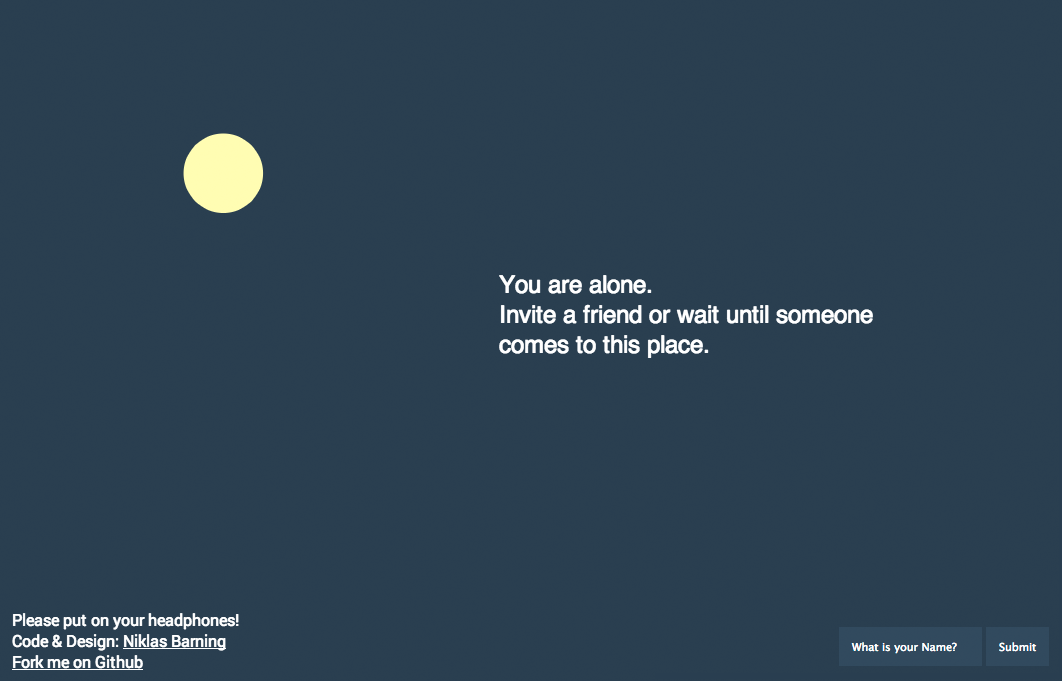
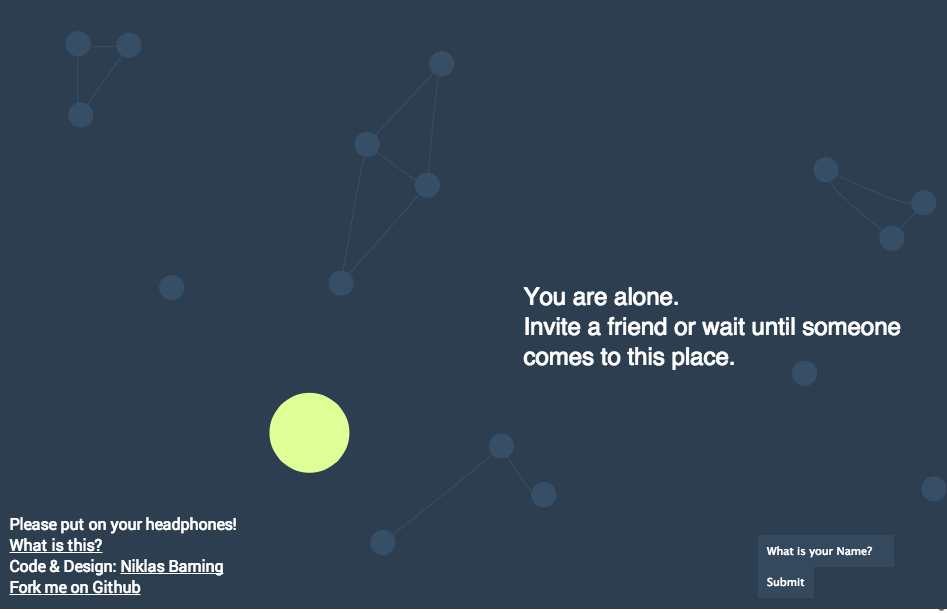
Inserted Particleground.js, Changed Readme

diff --git a/js/jquery.particleground.min.js b/js/jquery.particleground.min.js
@@ -1,0 +1,40 @@
+/**
+ * Particleground
+ *
+ * @author Jonathan Nicol - @mrjnicol
+ * @version 1.0.1
+ * @description Creates a canvas based particle system background
+ *
+ * Inspired by:
+ * http://requestlab.fr/
+ * http://disruptivebydesign.com/
+ * 
+ * @license The MIT License (MIT)
+ * 
+ * Copyright (c) 2014 Jonathan Nicol - @mrjnicol
+ * 
+ * Permission is hereby granted, free of charge, to any person obtaining a copy
+ * of this software and associated documentation files (the "Software"), to deal
+ * in the Software without restriction, including without limitation the rights
+ * to use, copy, modify, merge, publish, distribute, sublicense, and/or sell
+ * copies of the Software, and to permit persons to whom the Software is
+ * furnished to do so, subject to the following conditions:
+ * 
+ * The above copyright notice and this permission notice shall be included in
+ * all copies or substantial portions of the Software.
+ * 
+ * THE SOFTWARE IS PROVIDED "AS IS", WITHOUT WARRANTY OF ANY KIND, EXPRESS OR
+ * IMPLIED, INCLUDING BUT NOT LIMITED TO THE WARRANTIES OF MERCHANTABILITY,
+ * FITNESS FOR A PARTICULAR PURPOSE AND NONINFRINGEMENT. IN NO EVENT SHALL THE
+ * AUTHORS OR COPYRIGHT HOLDERS BE LIABLE FOR ANY CLAIM, DAMAGES OR OTHER
+ * LIABILITY, WHETHER IN AN ACTION OF CONTRACT, TORT OR OTHERWISE, ARISING FROM,
+ * OUT OF OR IN CONNECTION WITH THE SOFTWARE OR THE USE OR OTHER DEALINGS IN
+ * THE SOFTWARE.
+ */
+!function(a){function b(b,d){function e(){if(w){$canvas=a('<canvas class="pg-canvas"></canvas>'),v.prepend($canvas),p=$canvas[0],q=p.getContext("2d"),f();for(var b=Math.round(p.width*p.height/d.density),c=0;b>c;c++){var e=new l;e.setStackPos(c),x.push(e)}a(window).on("resize",function(){h()}),a(document).on("mousemove",function(a){y=a.pageX,z=a.pageY}),B&&!A&&window.addEventListener("deviceorientation",function(){D=Math.min(Math.max(-event.beta,-30),30),C=Math.min(Math.max(-event.gamma,-30),30)},!0),g(),o("onInit")}}function f(){p.width=v.width(),p.height=v.height(),q.fillStyle=d.dotColor,q.strokeStyle=d.lineColor,q.lineWidth=d.lineWidth}function g(){if(w){s=a(window).width(),t=a(window).height(),q.clearRect(0,0,p.width,p.height);for(var b=0;b<x.length;b++)x[b].updatePosition();for(var b=0;b<x.length;b++)x[b].draw();E||(r=requestAnimationFrame(g))}}function h(){for(f(),i=x.length-1;i>=0;i--)(x[i].position.x>v.width()||x[i].position.y>v.height())&&x.splice(i,1);var a=Math.round(p.width*p.height/d.density);if(a>x.length)for(;a>x.length;){var b=new l;x.push(b)}else a<x.length&&x.splice(a);for(i=x.length-1;i>=0;i--)x[i].setStackPos(i)}function j(){E=!0}function k(){E=!1,g()}function l(){switch(this.stackPos,this.active=!0,this.layer=Math.ceil(3*Math.random()),this.parallaxOffsetX=0,this.parallaxOffsetY=0,this.position={x:Math.ceil(Math.random()*p.width),y:Math.ceil(Math.random()*p.height)},this.speed={},d.directionX){case"left":this.speed.x=+(-d.maxSpeedX+Math.random()*d.maxSpeedX-d.minSpeedX).toFixed(2);break;case"right":this.speed.x=+(Math.random()*d.maxSpeedX+d.minSpeedX).toFixed(2);break;default:this.speed.x=+(-d.maxSpeedX/2+Math.random()*d.maxSpeedX).toFixed(2),this.speed.x+=this.speed.x>0?d.minSpeedX:-d.minSpeedX}switch(d.directionY){case"up":this.speed.y=+(-d.maxSpeedY+Math.random()*d.maxSpeedY-d.minSpeedY).toFixed(2);break;case"down":this.speed.y=+(Math.random()*d.maxSpeedY+d.minSpeedY).toFixed(2);break;default:this.speed.y=+(-d.maxSpeedY/2+Math.random()*d.maxSpeedY).toFixed(2),this.speed.x+=this.speed.y>0?d.minSpeedY:-d.minSpeedY}}function m(a,b){return b?void(d[a]=b):d[a]}function n(){v.find(".pg-canvas").remove(),o("onDestroy"),v.removeData("plugin_"+c)}function o(a){void 0!==d[a]&&d[a].call(u)}var p,q,r,s,t,u=b,v=a(b),w=!!document.createElement("canvas").getContext,x=[],y=0,z=0,A=!navigator.userAgent.match(/(iPhone|iPod|iPad|Android|BlackBerry|BB10|mobi|tablet|opera mini|nexus 7)/i),B=!!window.DeviceOrientationEvent,C=0,D=0,E=!1;return d=a.extend({},a.fn[c].defaults,d),l.prototype.draw=function(){q.beginPath(),q.arc(this.position.x+this.parallaxOffsetX,this.position.y+this.parallaxOffsetY,d.particleRadius/2,0,2*Math.PI,!0),q.closePath(),q.fill(),q.beginPath();for(var a=x.length-1;a>this.stackPos;a--){var b=x[a],c=this.position.x-b.position.x,e=this.position.y-b.position.y,f=Math.sqrt(c*c+e*e).toFixed(2);f<d.proximity&&(q.moveTo(this.position.x+this.parallaxOffsetX,this.position.y+this.parallaxOffsetY),d.curvedLines?q.quadraticCurveTo(Math.max(b.position.x,b.position.x),Math.min(b.position.y,b.position.y),b.position.x+b.parallaxOffsetX,b.position.y+b.parallaxOffsetY):q.lineTo(b.position.x+b.parallaxOffsetX,b.position.y+b.parallaxOffsetY))}q.stroke(),q.closePath()},l.prototype.updatePosition=function(){if(d.parallax){if(B&&!A){var a=(s-0)/60;pointerX=(C- -30)*a+0;var b=(t-0)/60;pointerY=(D- -30)*b+0}else pointerX=y,pointerY=z;this.parallaxTargX=(pointerX-s/2)/(d.parallaxMultiplier*this.layer),this.parallaxOffsetX+=(this.parallaxTargX-this.parallaxOffsetX)/10,this.parallaxTargY=(pointerY-t/2)/(d.parallaxMultiplier*this.layer),this.parallaxOffsetY+=(this.parallaxTargY-this.parallaxOffsetY)/10}switch(d.directionX){case"left":this.position.x+this.speed.x+this.parallaxOffsetX<0&&(this.position.x=v.width()-this.parallaxOffsetX);break;case"right":this.position.x+this.speed.x+this.parallaxOffsetX>v.width()&&(this.position.x=0-this.parallaxOffsetX);break;default:(this.position.x+this.speed.x+this.parallaxOffsetX>v.width()||this.position.x+this.speed.x+this.parallaxOffsetX<0)&&(this.speed.x=-this.speed.x)}switch(d.directionY){case"up":this.position.y+this.speed.y+this.parallaxOffsetY<0&&(this.position.y=v.height()-this.parallaxOffsetY);break;case"down":this.position.y+this.speed.y+this.parallaxOffsetY>v.height()&&(this.position.y=0-this.parallaxOffsetY);break;default:(this.position.y+this.speed.y+this.parallaxOffsetY>v.height()||this.position.y+this.speed.y+this.parallaxOffsetY<0)&&(this.speed.y=-this.speed.y)}this.position.x+=this.speed.x,this.position.y+=this.speed.y},l.prototype.setStackPos=function(a){this.stackPos=a},e(),{option:m,destroy:n,start:k,pause:j}}var c="particleground";a.fn[c]=function(d){if("string"==typeof arguments[0]){var e,f=arguments[0],g=Array.prototype.slice.call(arguments,1);return this.each(function(){a.data(this,"plugin_"+c)&&"function"==typeof a.data(this,"plugin_"+c)[f]&&(e=a.data(this,"plugin_"+c)[f].apply(this,g))}),void 0!==e?e:this}return"object"!=typeof d&&d?void 0:this.each(function(){a.data(this,"plugin_"+c)||a.data(this,"plugin_"+c,new b(this,d))})},a.fn[c].defaults={minSpeedX:.1,maxSpeedX:.7,minSpeedY:.1,maxSpeedY:.7,directionX:"center",directionY:"center",density:1e4,dotColor:"#666666",lineColor:"#666666",particleRadius:7,lineWidth:1,curvedLines:!1,proximity:100,parallax:!0,parallaxMultiplier:5,onInit:function(){},onDestroy:function(){}}}(jQuery),/**
+ * requestAnimationFrame polyfill by Erik Möller. fixes from Paul Irish and Tino Zijdel
+ * @see: http://paulirish.com/2011/requestanimationframe-for-smart-animating/
+ * @see: http://my.opera.com/emoller/blog/2011/12/20/requestanimationframe-for-smart-er-animating
+ * @license: MIT license
+ */
+function(){for(var a=0,b=["ms","moz","webkit","o"],c=0;c<b.length&&!window.requestAnimationFrame;++c)window.requestAnimationFrame=window[b[c]+"RequestAnimationFrame"],window.cancelAnimationFrame=window[b[c]+"CancelAnimationFrame"]||window[b[c]+"CancelRequestAnimationFrame"];window.requestAnimationFrame||(window.requestAnimationFrame=function(b){var c=(new Date).getTime(),d=Math.max(0,16-(c-a)),e=window.setTimeout(function(){b(c+d)},d);return a=c+d,e}),window.cancelAnimationFrame||(window.cancelAnimationFrame=function(a){clearTimeout(a)})}();

diff --git a/index.html b/index.html
@@ -11,11 +11,14 @@
 	<script src="//code.jquery.com/jquery-1.11.0.min.js"></script>
 	<script src="js/p5.js"></script>
 	<script src="js/sound.js"></script>
+	<script src="js/jquery.particleground.min.js"></script>
 
 </head>
 <body>
 	<div id="processing">
 	</div>
+<div id="background">
+</div>
 	<div id="about">
 		<section>
 			<article>
@@ -30,7 +33,7 @@
 	<section class="name">
 		<input type='text' class='loginname' placeholder='What is your Name?'>
 		<input type='submit' class='submit' value='Submit'>
-	</section>	
+	</section>
 	<p class="info">
 		Please put on your headphones!<br>
 		<a  class="what" href="#">What is this?</a><br>
@@ -46,12 +49,13 @@
 	}
 
 	$(document).ready( function() {
+
 		$(".submit").click( function() {
 			registerName();
 			$( ".name" ).fadeOut( "slow", function() {
 			// Animation complete.
 			});
-		});	
+		});
 		$(".what").click( function() {
 			$( "#about" ).fadeIn( "slow", function() {
 			});
@@ -59,7 +63,7 @@
 		$("#about").click( function() {
 			$( "#about" ).fadeOut( "slow", function() {
 			});
-		});	
+		});
 	});
 	</script>
 
@@ -83,11 +87,21 @@
 		var myCanvas = createCanvas(windowWidth, windowHeight);
 		myCanvas.parent('processing');
 		sizeforServer();
+		$('#background').particleground({
+		dotColor: '#374F66',
+		lineColor: '#374F66',
+		particleRadius: 25,
+		parallaxMultiplier: 30,
+		density: 35000,
+		curvedLines: true,
+		proximity: 150
+		});
 
 	}
 
 	function draw() {
-		background(44, 62, 80);
+		clear();
+		//background(44, 62, 80);
 		fill(100);
 		textAlign(CENTER);
 		fill(255);
@@ -133,7 +147,7 @@ Boid.prototype.render = function() {
 	ellipseMode(CENTER);
 	if (this.myname != undefined){
 		textSize(18);
-		text(this.myname , this.position.x+90, this.position.y+5); 
+		text(this.myname , this.position.x+90, this.position.y+5);
 	}
 	ellipse(this.position.x, this.position.y,this.r,this.r);
 
@@ -160,7 +174,7 @@ socket.on ('updateBoids', function (msg) {
 		var y= random(50,windowHeight-130);
 		boids[i] = new Boid(x,y,i );
 		socket.emit ('who',{myX:x,myY: y});
-	} 
+	}
 });
 
 
@@ -180,7 +194,7 @@ function sizeforServer () {
 	var _docHeight = (document.height !== undefined) ? document.height : document.body.offsetHeight;
 	var _docWidth = (document.width !== undefined) ? document.width : document.body.offsetWidth;
 	socket.emit ('mySize',{mywidth: _docWidth, myheight: _docHeight});
-}  
+}
 
 socket.on ('newName', function (data) {
 	var tempName = data.name;
@@ -211,6 +225,6 @@ socket.on ('youare', function (data) {
 	boid.color = color(r,g,b);
 	boid.myname = tempMyname;
 });
-</script>    
+</script>
 </body>
 </html>

diff --git a/css/style.css b/css/style.css
@@ -43,8 +43,22 @@ input, select, textarea {
 * {
   padding: 0;
   margin: 0;
-  background-color: #2c3e50;
   box-sizing: border-box; }
+
+#processing {
+  position: absolute;
+  width: 100%;
+  height: 100%;
+  top: 0;
+  z-index: 2; }
+
+#background {
+  background-color: #2c3e50;
+  position: absolute;
+  width: 100%;
+  height: 100%;
+  top: 0;
+  z-index: 1; }
 
 #about {
   position: absolute;
@@ -77,6 +91,7 @@ input, select, textarea {
   position: absolute;
   bottom: 2%;
   left: 1%;
+  z-index: 3;
   background: transparent; }
   .info a {
     color: white; }
@@ -84,6 +99,7 @@ input, select, textarea {
       text-decoration: none; }
 
 .name {
+  z-index: 3;
   position: absolute;
   bottom: 2%;
   right: 0%;

diff --git a/scss/style.scss b/scss/style.scss
@@ -8,13 +8,26 @@
 * {
 	padding: 0;
 	margin: 0;
-	background-color: #2c3e50;
-	box-sizing: border-box; 
+	box-sizing: border-box;
 }
 
 #processing {
-
+	position: absolute;
+	width: 100%;
+	height: 100%;
+	top: 0;
+	z-index: 2;
 }
+
+#background {
+	background-color: #2c3e50;
+	position: absolute;
+	width: 100%;
+	height: 100%;
+	top: 0;
+	z-index: 1;
+}
+
 
 #about {
 	position: absolute;
@@ -53,6 +66,7 @@
 	position: absolute;
 	bottom: 2%;
 	left: 1%;
+	z-index:3;
 	background: transparent;
 
 	a {
@@ -64,6 +78,7 @@
 }
 
 .name {
+	z-index:3;
 	position: absolute;
 	bottom: 2%;
 	right: 0%;

diff --git a/README.md b/README.md
@@ -11,7 +11,7 @@ Please put on your headphones, or the audiosignal will be disturbed.
 
 **Start server locally:** `node index.js`
 
-It's build with [Node.js](http://nodejs.org/), [Socket.io](http://socket.io/) and [P5.js](http://p5js.org/).
+It's build with [Node.js](http://nodejs.org/), [Socket.io](http://socket.io/), [Particleground](http://jnicol.github.io/particleground/) and [P5.js](http://p5js.org/).
 
 ##Screenshot
 ![image](./img/screenshot.png)
